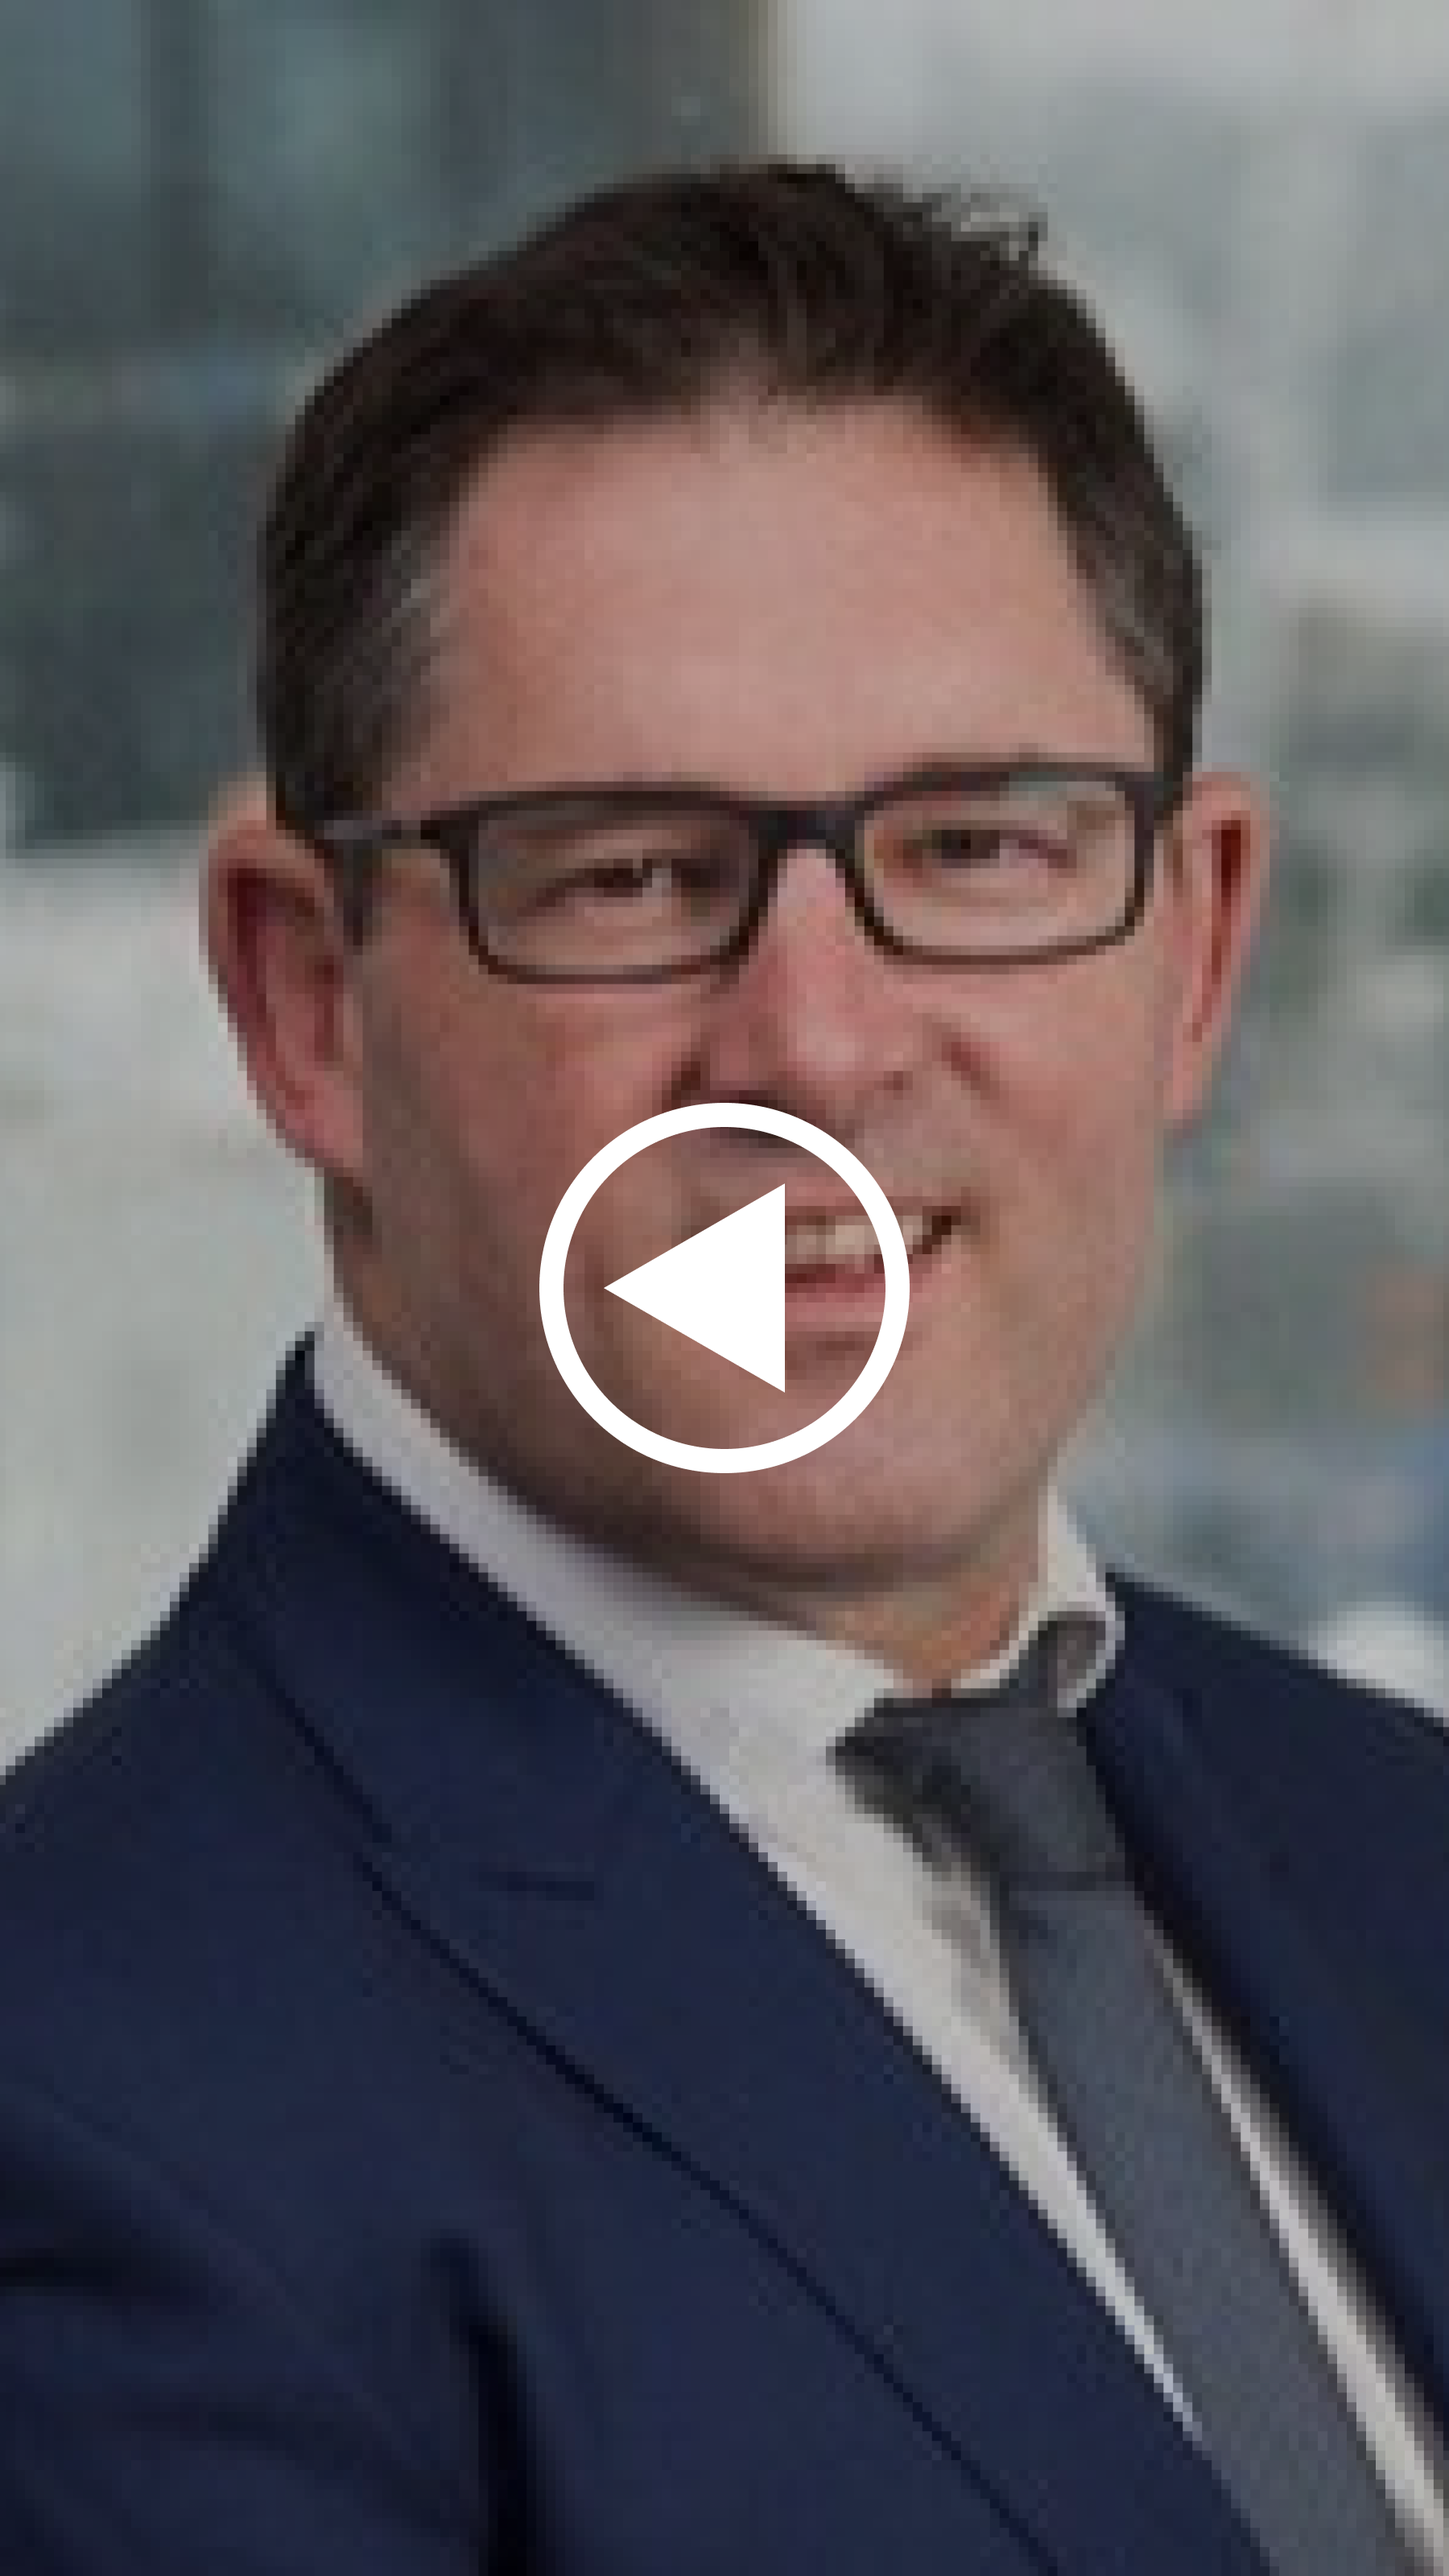
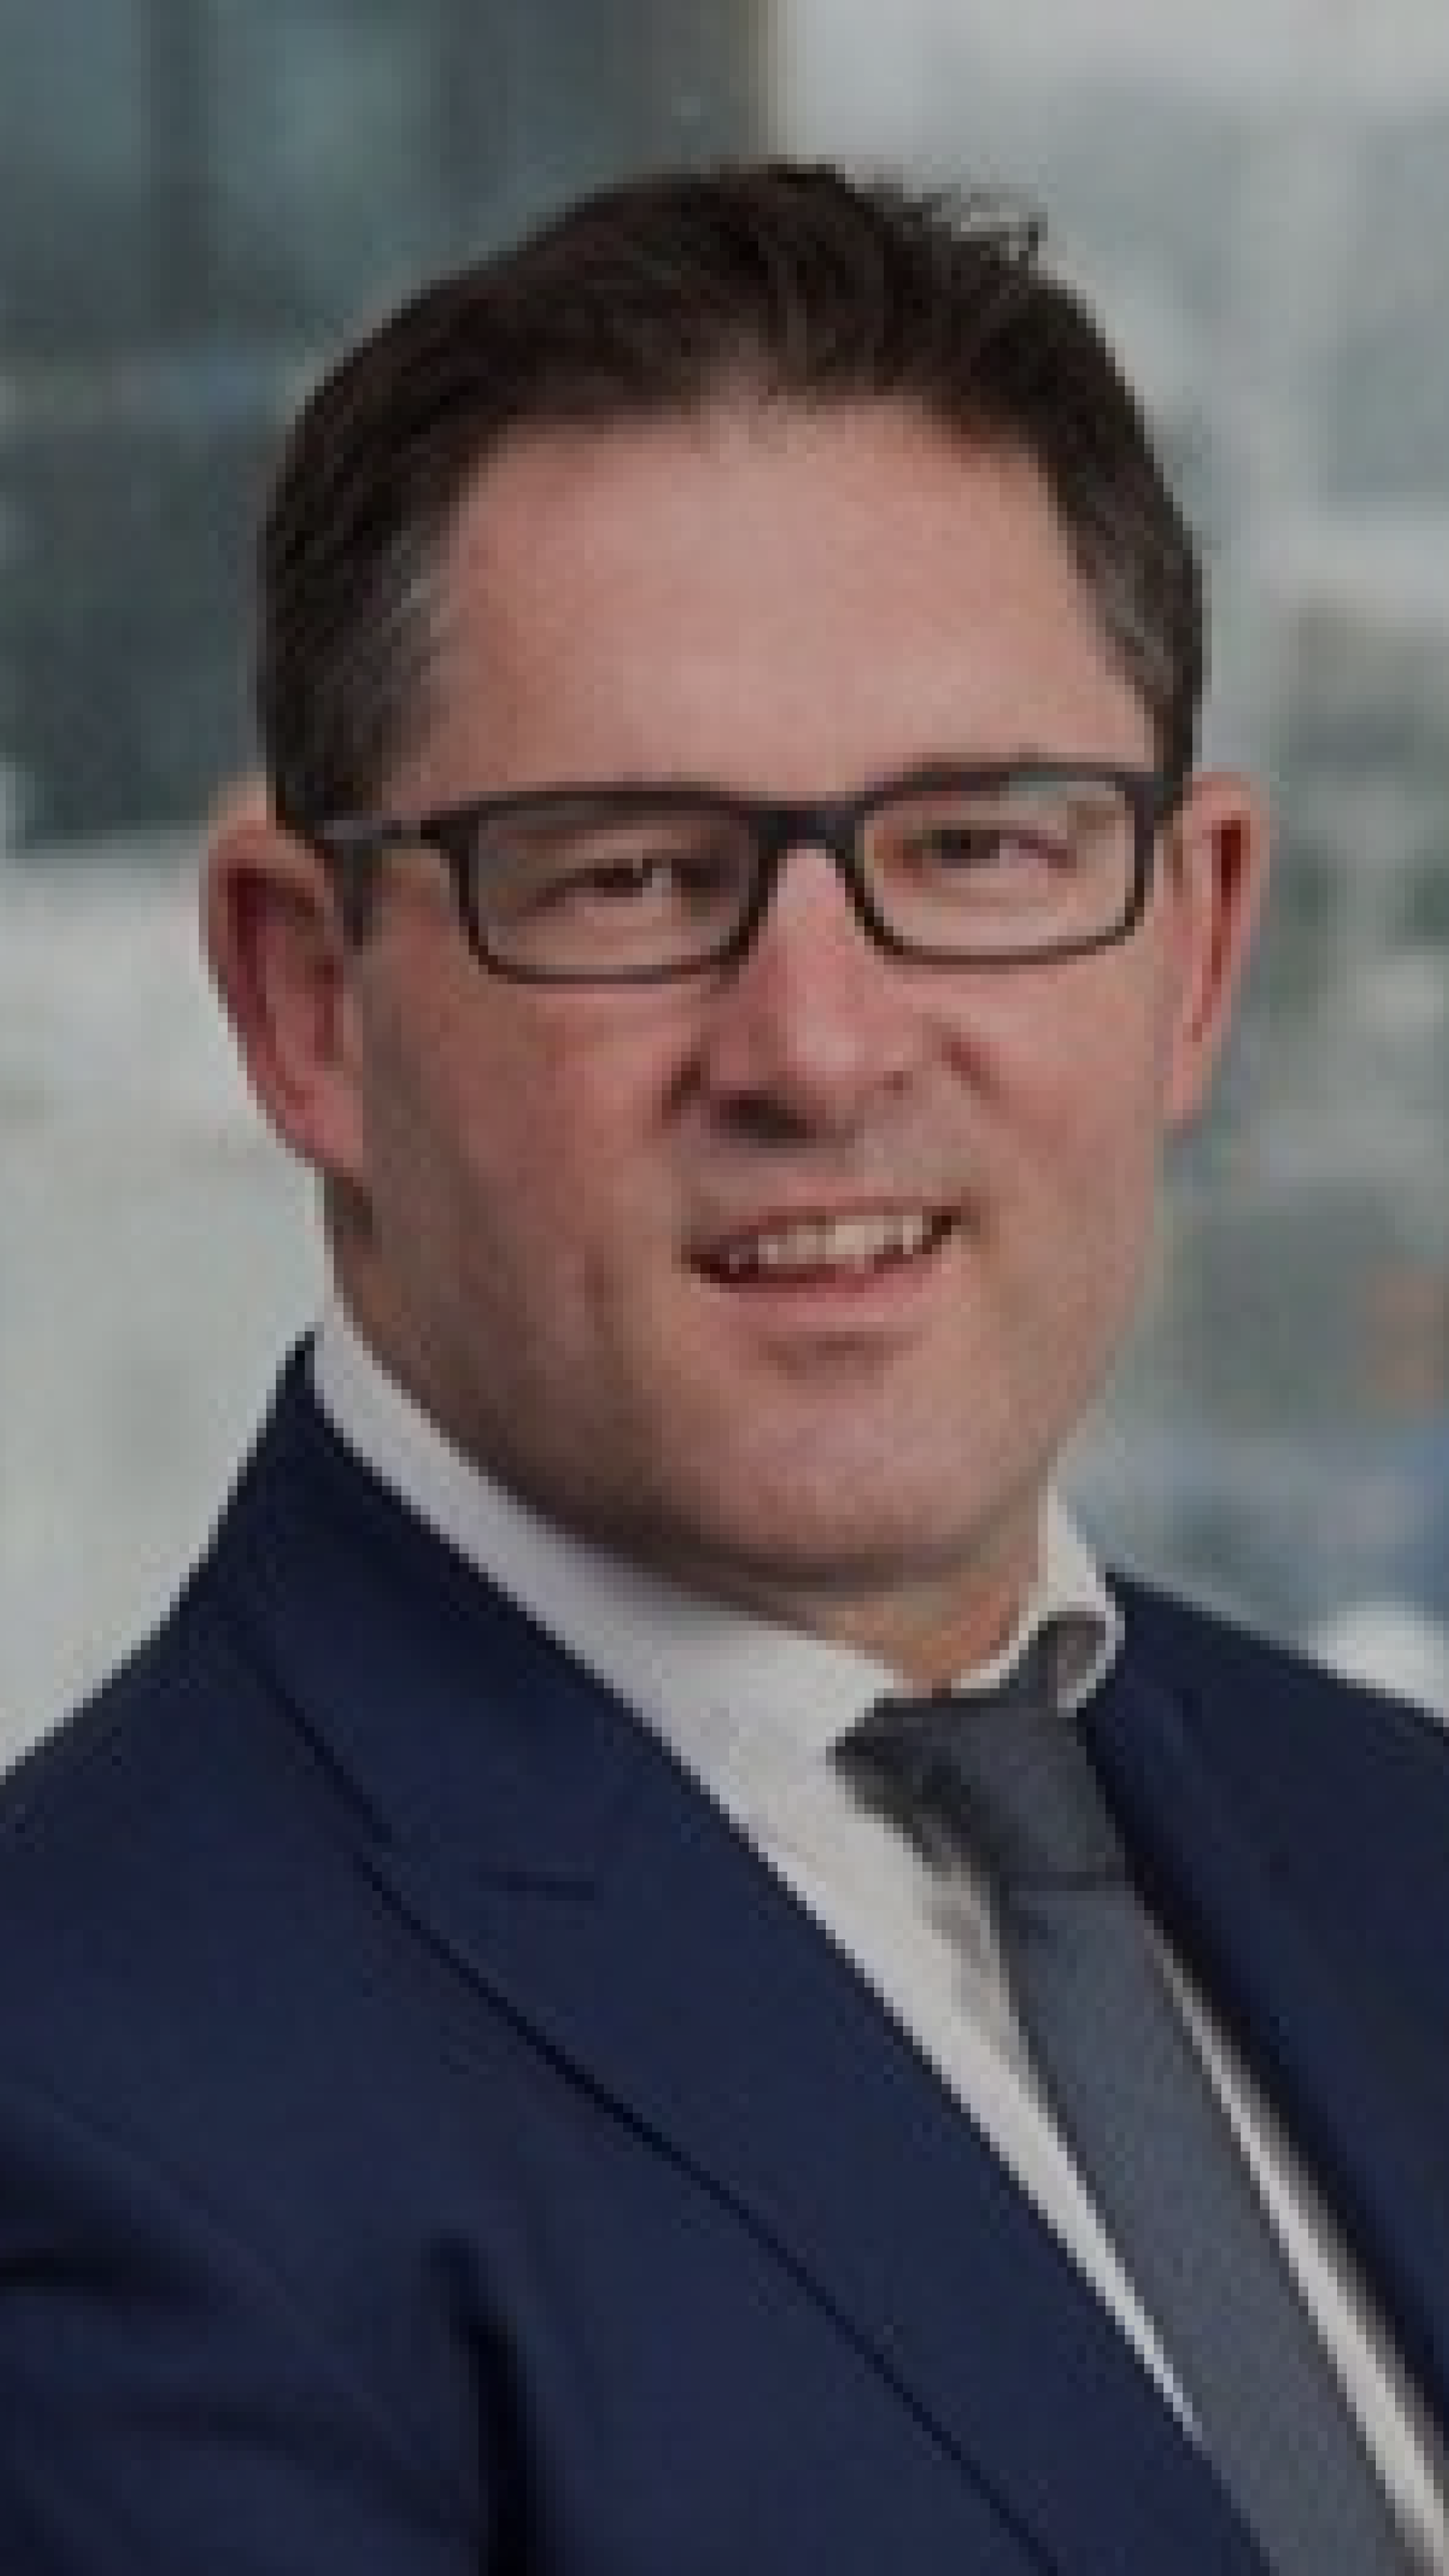
updates

Changed region(s): [[0.3733, 0.4062, 0.6222, 0.5938]]

diff --git a/src/screens/home/HomeScreen.jsx b/src/screens/home/HomeScreen.jsx
@@ -263,7 +263,7 @@ export default function HomeScreen() {
           <Grid2 size={{ md: 3, xs: 6 }}>
             <Spacer />
             <div className={style.testimonial_video}>
-              <video controls>
+              <video controls poster="/mark.png">
                 <source
                   src="https://scoobies-backend.s3.ap-south-1.amazonaws.com/7.mp4"
                   type="video/mp4"
@@ -280,7 +280,7 @@ export default function HomeScreen() {
           </Grid2>
           <Grid2 size={{ md: 3, xs: 6 }}>
             <div className={style.testimonial_video}>
-              <video controls>
+              <video controls poster="/jenny.png">
                 <source
                   src="https://scoobies-backend.s3.ap-south-1.amazonaws.com/8.mp4"
                   type="video/mp4"
@@ -298,7 +298,7 @@ export default function HomeScreen() {
           <Grid2 size={{ md: 3, xs: 6 }}>
             <Spacer />
             <div className={style.testimonial_video}>
-              <video controls>
+              <video controls poster="/matthew.png">
                 <source
                   src="https://scoobies-backend.s3.ap-south-1.amazonaws.com/9.mp4"
                   type="video/mp4"
